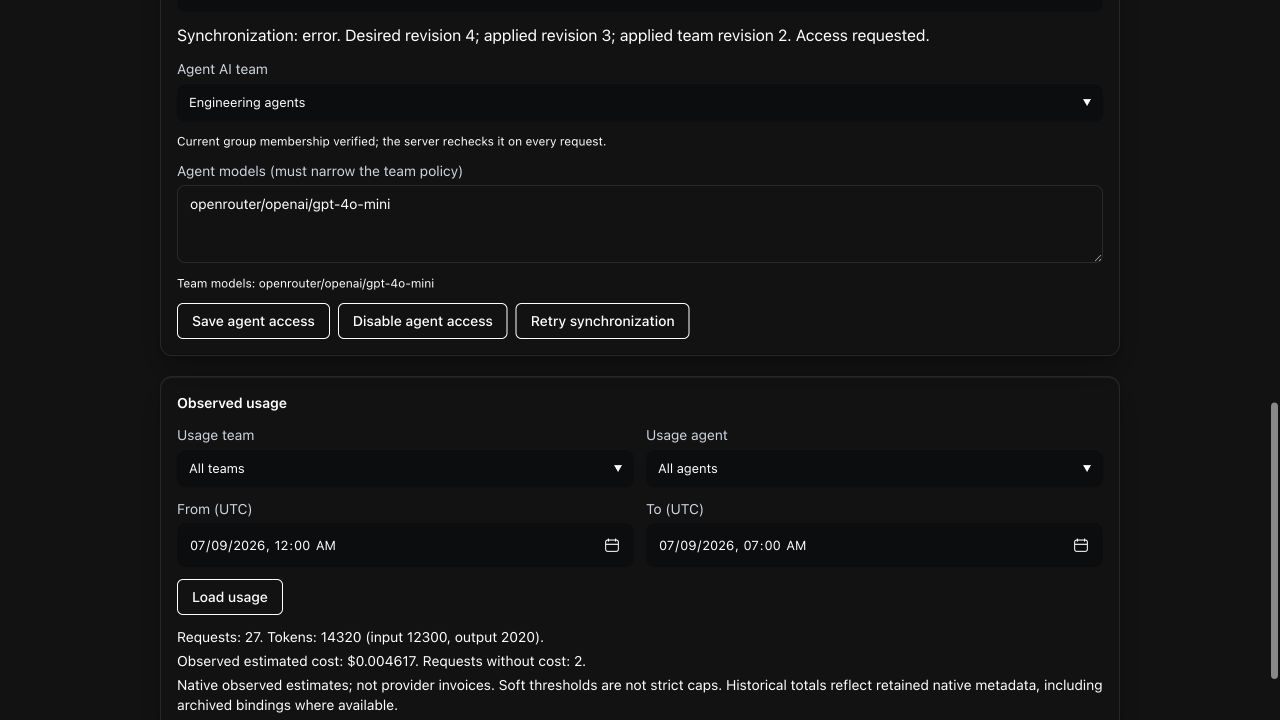
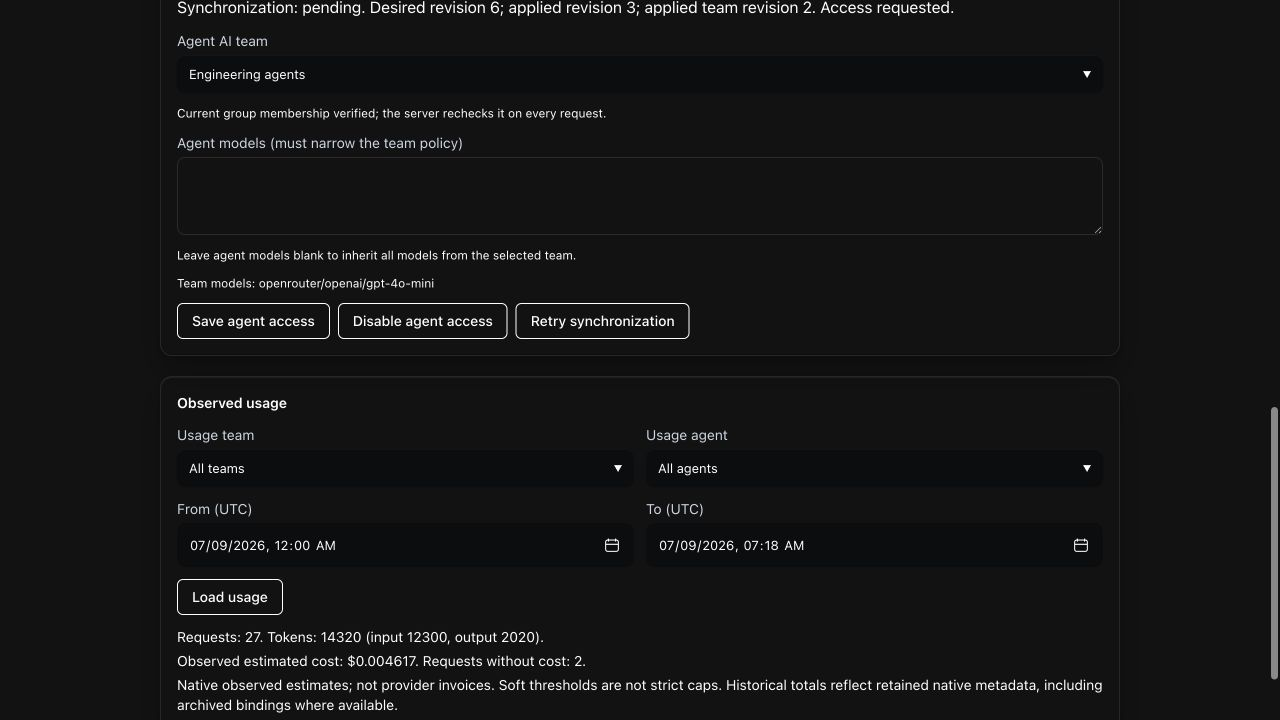
fix(ai): expose inherited models and settings retry

diff --git a/apps/web/src/components/AIGatewaySettings.tsx b/apps/web/src/components/AIGatewaySettings.tsx
@@ -13,17 +13,20 @@ function GatewaySettings({ orgId, canEdit }: { orgId: string; canEdit: boolean }
   const [settings, setSettings] = useState<Settings | null>(null);
   const [busy, setBusy] = useState(false);
   const [error, setError] = useState<string | null>(null);
+  const [attempt, setAttempt] = useState(0);
   const mounted = useRef(true);
   useEffect(() => {
     mounted.current = true;
+    let live = true;
+    setError(null);
     void api.GET("/api/v1/organizations/{orgId}/ai-gateway", { params: { path: { orgId } } })
       .then(({ data, error }) => {
-        if (!mounted.current) return;
+        if (!live) return;
         if (error || !data) setError("Could not load AI gateway settings.");
         else setSettings(data);
-      }).catch(() => { if (mounted.current) setError("Could not load AI gateway settings."); });
-    return () => { mounted.current = false; };
-  }, [orgId]);
+      }).catch(() => { if (live) setError("Could not load AI gateway settings."); });
+    return () => { live = false; mounted.current = false; };
+  }, [orgId, attempt]);
 
   async function toggle() {
     if (!settings || busy) return;
@@ -54,5 +57,6 @@ function GatewaySettings({ orgId, canEdit }: { orgId: string; canEdit: boolean }
       {canEdit && <Button className="mt-3" disabled={busy || (!settings.available && !settings.enabled)} onClick={() => void toggle()}>{busy ? "Saving…" : settings.enabled ? "Disable AI gateway" : "Enable AI gateway"}</Button>}
     </>}
     {error && <p role="alert" className="mt-2 text-xs text-danger">{error}</p>}
+    {error && !settings && <Button className="mt-3" onClick={() => setAttempt((value) => value + 1)}>Retry AI gateway settings</Button>}
   </Card>;
 }

diff --git a/apps/web/test/aigatewaypolicy.test.tsx b/apps/web/test/aigatewaypolicy.test.tsx
@@ -166,6 +166,22 @@ describe("AI team and agent policy workspace", () => {
     );
     await waitFor(() => expect(mocks.POST).toHaveBeenCalled());
   });
+  it("saves an empty override as inheritance with the authoritative revision", async () => {
+    render(show());
+    await screen.findByLabelText("Agent");
+    fireEvent.change(screen.getByLabelText("Agent"), { target: { value: "agent-a" } });
+    await screen.findByText(/Current group membership verified/);
+    fireEvent.change(screen.getByLabelText("Agent models (must narrow the team policy)"), { target: { value: "  \n" } });
+    const save = screen.getByRole("button", { name: "Save agent access" }) as HTMLButtonElement;
+    expect(save.disabled).toBe(false);
+    fireEvent.click(save);
+    await waitFor(() => expect(mocks.PUT).toHaveBeenCalledWith(
+      expect.stringContaining("/agents/{deviceId}"),
+      { params: { path: { orgId: "org-a", deviceId: "agent-a" } }, body: {
+        team_id: "group-a", enabled: true, models_override: [], expected_revision: 4,
+      } },
+    ));
+  });
   it("refuses agent overrides outside its team", async () => {
     render(show());
     await screen.findByLabelText("Agent");

diff --git a/apps/web/src/pages/AgentsAIGateway.tsx b/apps/web/src/pages/AgentsAIGateway.tsx
@@ -179,7 +179,7 @@ export function AIGatewayWorkspace({ orgId }: { orgId: string }) {
         {data.groups.length === 0 ? (
           <p>
             No Agent Groups yet.{" "}
-            <Link to="/agents/policies">Create a group</Link> first.
+            <Link to="/access/groups?type=agents">Create a group</Link> first.
           </p>
         ) : (
           <>
@@ -412,7 +412,6 @@ function AssignmentEditor({
   const valid =
     team &&
     membership === "member" &&
-    lines(models).length > 0 &&
     lines(models).every((m) => team.models.includes(m));
   return (
     <div className="mt-3 space-y-3">
@@ -464,6 +463,7 @@ function AssignmentEditor({
           onChange={(e) => setModels(e.target.value)}
         />
       </Field>
+      <p className="text-xs text-ink-secondary">Leave agent models blank to inherit all models from the selected team.</p>
       {team && (
         <p className="text-xs text-ink-secondary">
           Team models: {team.models.join(", ")}

diff --git a/apps/web/test/aigatewaysettings.test.tsx b/apps/web/test/aigatewaysettings.test.tsx
@@ -24,6 +24,16 @@ beforeEach(() => { vi.resetAllMocks(); });
 afterEach(cleanup);
 
 describe("AI gateway organization settings", () => {
+  it("retries an initial settings load failure without a browser refresh", async () => {
+    api.GET.mockRejectedValueOnce(new Error("offline")).mockResolvedValueOnce(result(false));
+    render(view());
+    await screen.findByRole("alert");
+    fireEvent.click(screen.getByRole("button", { name: "Retry AI gateway settings" }));
+    await state(false);
+    expect(screen.queryByRole("alert")).toBeNull();
+    expect(api.GET).toHaveBeenCalledTimes(2);
+    expect(api.PUT).not.toHaveBeenCalled();
+  });
   it("prevents enable when the installation is unavailable", async () => {
     api.GET.mockResolvedValue(result(false, false));
     render(view());
